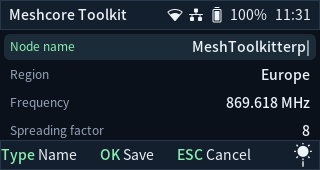
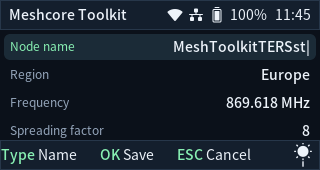
feat(input): upper case letters; docs: drop third-party app references
- Track KEY_LEFTSHIFT in evdev_read_cb (the device keyboard has no right
  shift) and upper-case letters before they reach the UI, so Shift works in the
  node-name editor.
- README no longer refers to other applications: the intro, dark-theme feature,
  LoRa power note and credits now describe behaviour instead of provenance.
  Also fixed the sample config, which still showed dark_mode=no.
- Screenshots refreshed from the final build.

Changed region(s): [[0.5312, 0.2353, 0.9688, 0.3235], [0.9062, 0.0294, 0.9688, 0.1176], [0.5312, 0.0588, 0.5625, 0.0882]]

diff --git a/src/platform/linux_input.cpp b/src/platform/linux_input.cpp
@@ -42,6 +42,7 @@ constexpr uint32_t kLongPressMs = 700;
 #if !USE_DESKTOP
 struct EvdevKeypad {
     int fd{-1};
+    bool shift_down{false};
     lv_indev_state_t state{LV_INDEV_STATE_RELEASED};
     uint32_t key{0};
     bool router_event_pending{false};
@@ -335,10 +336,23 @@ void evdev_read_cb(lv_indev_t* indev, lv_indev_data_t* data) {
             continue;
         }
 
-        const auto key = map_evdev_key(input.code);
-        if (!key || input.value == 2) {
+        // Shift is a modifier, not a key the UI should see; remember it so the
+        // next letter arrives in upper case.
+        if (input.code == KEY_LEFTSHIFT || input.code == KEY_RIGHTSHIFT) {
+            keypad->shift_down = input.value != 0;
+            data->continue_reading = true;
             continue;
         }
+
+        const auto mapped = map_evdev_key(input.code);
+        if (!mapped || input.value == 2) {
+            continue;
+        }
+
+        const uint32_t key =
+            (keypad->shift_down && mapped >= 'a' && mapped <= 'z')
+                ? static_cast<uint32_t>(mapped - 'a' + 'A')
+                : mapped;
 
         keypad->key = key;
         keypad->state = input.value ? LV_INDEV_STATE_PRESSED : LV_INDEV_STATE_RELEASED;

diff --git a/README.md b/README.md
@@ -4,23 +4,22 @@ A LoRa mesh health analyzer for the M5Stack CardputerZero (aarch64 Linux,
 320×170). It configures your MeshCore node and radio, verifies the LoRa hat at
 startup, and will analyze the health of nearby mesh nodes.
 
-The main screen is a sliding card carousel — Settings, Test 1, Test 2 — ported
-from the [CardputerZero mouse emulator](https://github.com/CardputerZero/cardputer-zero-mouse-emu)
-layout, so the two apps look like siblings on the device.
+The main screen is a sliding card carousel — Settings, Test 1, Test 2 — with a
+mint accent card flanked by side cards and a dot indicator.
 
 | Main menu | Settings | Editing a value | Typing the node name |
 | --- | --- | --- | --- |
 | ![Main menu](screenshot/app-home.png) | ![Settings](screenshot/app-settings.png) | ![Editing](screenshot/app-settings-edit.png) | ![Name editor](screenshot/app-name-edit.png) |
 
 *Captured on the device with the app's own screenshot key (320×170).*
-*The app starts in the dark palette shared with Mouse Jiggler; `6` switches to light.*
+*The app starts dark; `6` switches to a light theme.*
 
 ## Features
 
 - **Sliding menu** — a three-card carousel with a dot indicator; Z/C move the
   selection, OK opens it.
-- **Dark by default** — the navy/mint palette from the sibling Mouse Jiggler app;
-  `6` toggles a light theme.
+- **Dark by default** — a deep navy canvas with panel and card tiers and a mint
+  accent; `6` toggles a light theme.
 - **Settings** — configure every primary MeshCore radio option:
   node name, region (with presets), frequency, spreading factor, bandwidth,
   coding rate, TX power, sync word, and preamble. Up/Down pick a field, OK opens
@@ -85,7 +84,7 @@ Settings are saved to `meshcore-toolkit.conf`:
 
 ```ini
 [application]
-dark_mode=no
+dark_mode=yes
 
 [mesh]
 node_name=MeshToolkit
@@ -143,28 +142,21 @@ config at `/etc/meshcore-toolkit.conf`.
   rail down the SX1262 still answers nothing over SPI — every read returns
   `0x00`, which looks exactly like a missing hat. The probe therefore sets
   `/sys/class/leds/ext_5v_out/brightness` to `1`, waits 150 ms for the rail to
-  settle (the same delay M5Stack's own LoRa app uses), and only then reads the
-  SX1262 `GetStatus` byte. Verified on hardware: hat detected on
-  `/dev/spidev0.1`.
+  settle, and only then reads the SX1262 `GetStatus` byte. Verified on hardware:
+  hat detected on `/dev/spidev0.1`.
 - **The rail node is `root:gpio` mode `0664`**, so the app needs `gpio` group
   membership to power the hat. When it cannot be written, the error screen says
   so (`cannot enable EXT 5V`).
-- **Not yet implemented:** the hat's RESET/BUSY lines live behind a
-  `PI4IOE5V6408` I²C expander (`/dev/i2c-1`) in M5Stack's driver, with a direct
-  GPIO fallback. The probe currently relies on the radio already being in
-  standby; driving reset explicitly is needed before real TX/RX.
+- **Not yet implemented:** the hat's RESET/BUSY lines sit behind a
+  `PI4IOE5V6408` I²C expander (`/dev/i2c-1`), with a direct GPIO fallback. The
+  probe relies on the radio already being in standby; driving reset explicitly is
+  needed before real TX/RX.
 - **On the development unit** no expander answered on any I²C bus, yet the SPI
   status read is valid once the rail is up — so the reset line is either
   strapped high or held externally.
-- **MeshCore integration is config-first.** The radio settings mirror MeshCore's
-  `lora` namespace and NodePrefs; the on-air protocol/routing driver is the next
-  milestone.
-
-## Credits
-
-- UI carousel language and layout metrics, main-screen layout: [Ultimate-Remote](https://github.com/geo-tp/Ultimate-Remote) (MIT)
-- Radio configuration model: [MeshCore](https://github.com/meshcore-dev/MeshCore) (MIT)
-- LoRa hat: [M5Stack Cap LoRa-1262](https://docs.m5stack.com/en/cap/Cap_LoRa-1262)
+- **MeshCore integration is config-first.** The radio settings mirror the
+  `lora` namespace and node preferences of MeshCore; the on-air protocol and
+  routing driver is the next milestone.
 
 ## License
 
